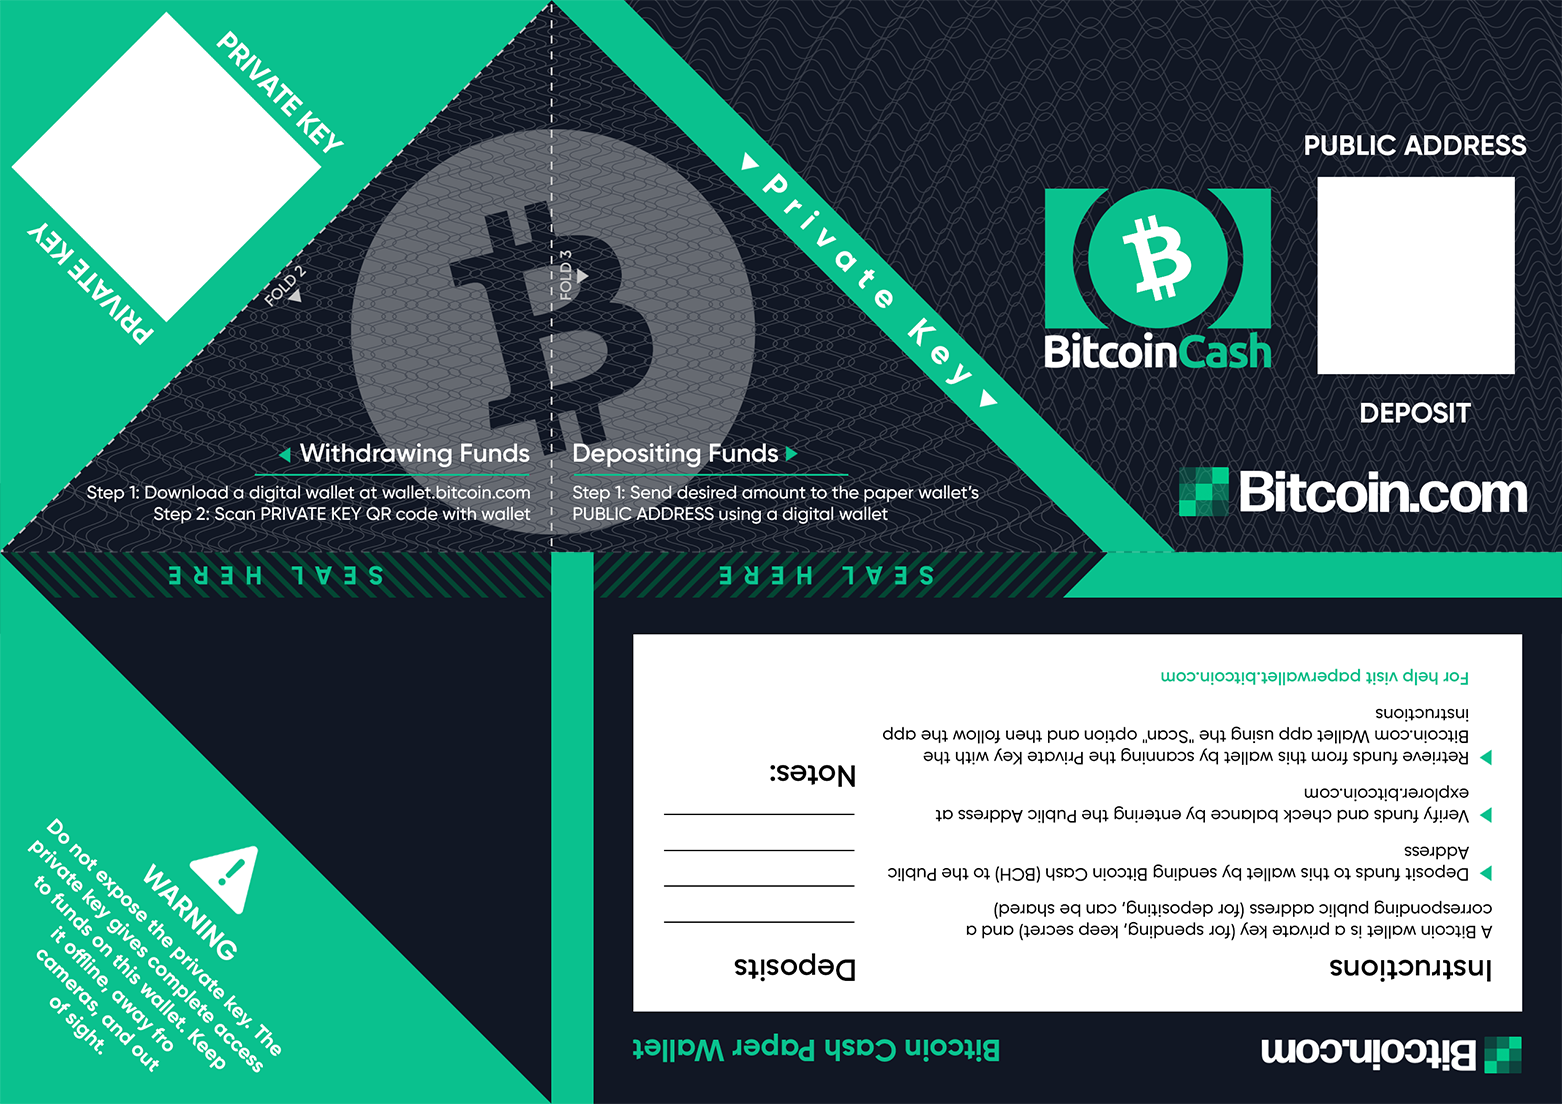
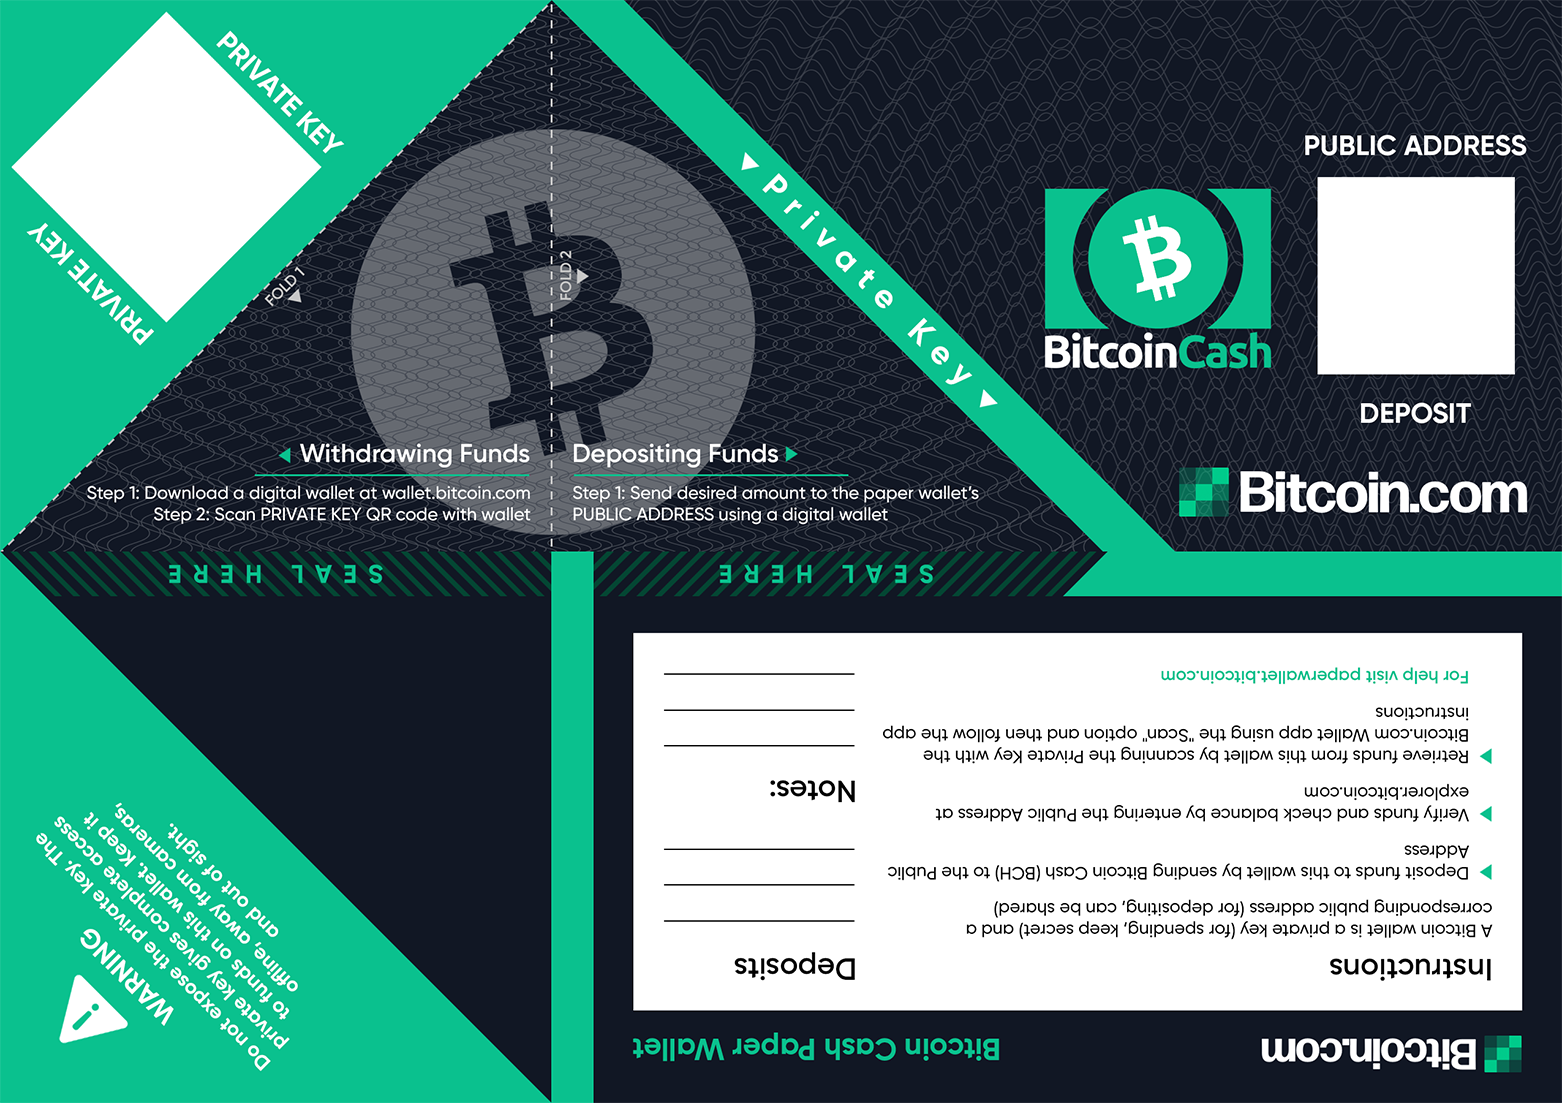
style and typo fixes

diff --git a/cashwallet.html b/cashwallet.html
@@ -6616,8 +6616,8 @@ input[type=checkbox] { position: relative; z-index: 20; }
   .bip-encrypted {
     font-family: 'Gilroy', sans-serif;
     padding: 2px 0px;
-    background-color: #000;
-    color: #0fcb97;
+    /* background-color: #000;
+    color: #0fcb97; */
     font-weight: 400;
     font-size: 9px;
     text-align: center;
@@ -6901,6 +6901,26 @@ input[type=checkbox] { position: relative; z-index: 20; }
 		-ms-transform-origin:top left;     -ms-transform:rotate(180deg);
 		-o-transform-origin:top left;      -o-transform:rotate(180deg);
 		transform-origin:top left;         transform:rotate(180deg);
+  }
+
+  .lock-art {
+    position: relative;
+    text-align: center;
+    width: 100%;
+  }
+
+  .bip-encrypted {
+    font-family: 'Gilroy', sans-serif;
+    padding: 2px 0px;
+    background-color: #000;
+    /* color: #0fcb97; */
+    font-weight: 400;
+    font-size: 9px;
+    text-align: center;
+    z-index: 100;
+    position: absolute;
+    width: 100%;
+    top: 40px;
   }
 
 }
@@ -10787,6 +10807,7 @@ ninja.wallets.paperwallet = {
     case 'default':
       //file resource version: 
       image = 'img/2019-paper-wallet-dark-blue.png';
+	  lockArtBgColor='#fff;'  
       //base64 encoded version:
       break;
 
